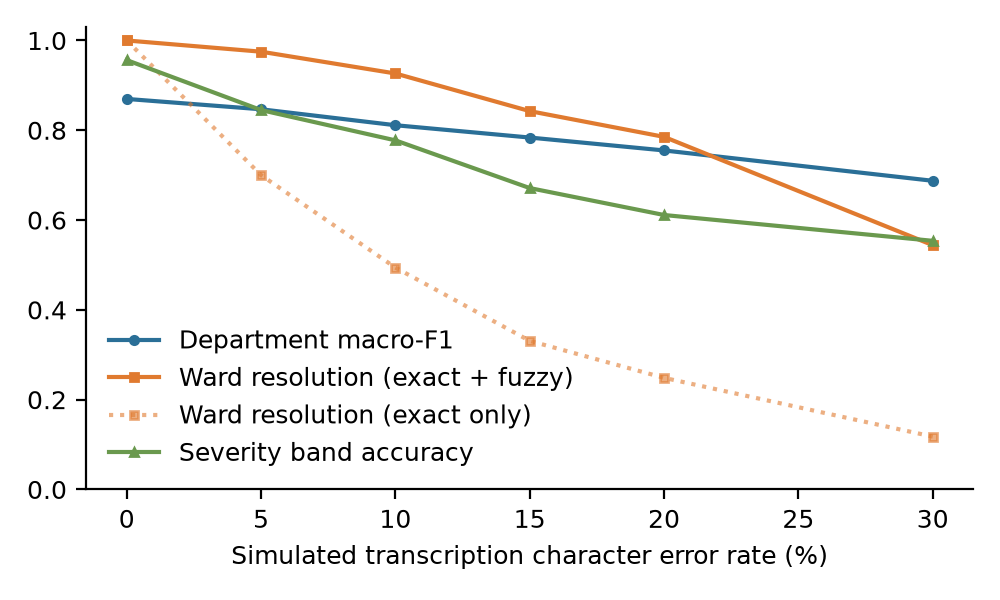
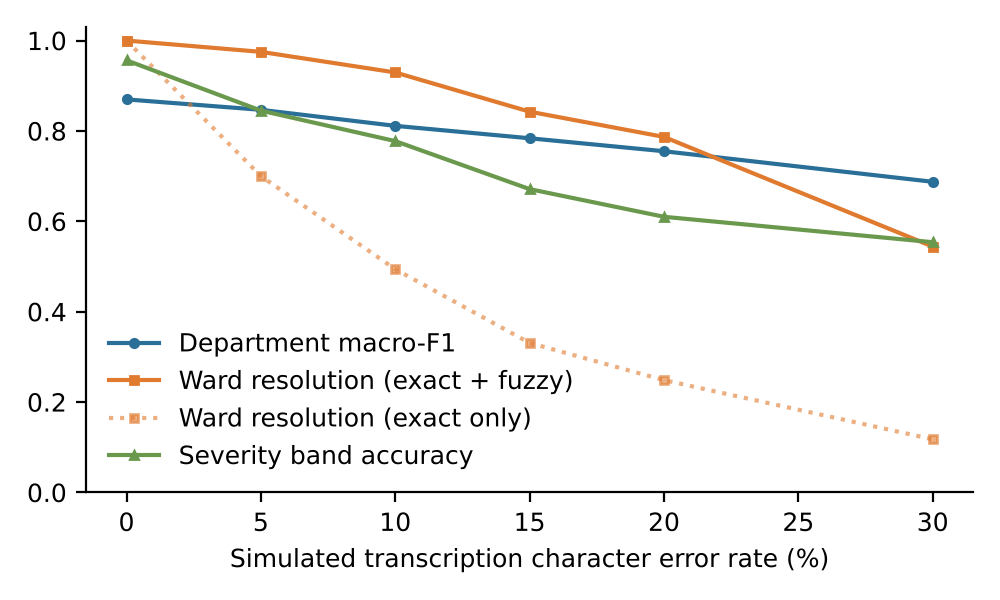
P2: evaluate test_v2 with run_eval --test v2; generate RESULTS.md
run_eval.py takes --test v2 (all corpus/test_v2_<writer>.tsv, into
results/test_v2/) or --test-file PATH; the default and every reported number
are unchanged (checked by passing test_v1 as --test-file). The duplicate-pair
experiment always uses test_v1. scripts/write_results_md.py writes RESULTS.md
(v1.0 vs v2.0 on test_v1, and test_v2 once it has run) from the result files;
a test keeps it current. Regenerated fig_asr_noise.png and the nodal queue
for the F1/F4 changes.

Claude-Session: https://claude.ai/code/session_01W9BiCfzsqPpDsAL1bkcKcT

diff --git a/scripts/write_results_md.py b/scripts/write_results_md.py
@@ -1,0 +1,89 @@
+"""Write RESULTS.md from the result files, so no number in it is typed by hand.
+
+    python scripts/write_results_md.py
+
+Reads results/results_shipped.json (v1.0, the numbers in the PBL-4 report and PBL-5 paper),
+results/results.json (v2.0 on test_v1) and, once it exists, results/test_v2/results.json
+(v2.0 on the held-out test_v2). Run it after experiments/run_eval.py.
+"""
+import sys
+from pathlib import Path
+
+sys.path.insert(0, str(Path(__file__).resolve().parent.parent))
+from nagarvani import config, results_view  # noqa: E402
+from nagarvani.console import safe_console  # noqa: E402
+
+OUT = config.ROOT / "RESULTS.md"
+V2_JSON = config.RESULTS / "test_v2" / "results.json"
+EVAL = "`python experiments/run_eval.py`"
+EVAL_V2 = "`python experiments/run_eval.py --test v2`"
+
+
+def pct(r, digits=1):
+    return "–" if r is None or r.get("rate") is None else f"{100 * r['rate']:.{digits}f}% ({r['count']}/{r['total']})"
+
+
+def num(x, digits=3):
+    return "–" if x is None else f"{x:.{digits}f}"
+
+
+def rows(S):
+    """(metric, formatted value) for one summary; order is the table order."""
+    n10, n20 = S["noise10"] or {}, S["noise20"] or {}
+    return [
+        ("Department accuracy", pct(S["dept_acc"])),
+        ("Department macro-F1", num(S["dept_macro_f1"])),
+        ("Department top-3 accuracy", pct(S["dept_top3"])),
+        ("Keyword baseline accuracy", pct(S["keyword_acc"])),
+        ("Char-only LogReg accuracy (not adopted)", pct(S["char_only_acc"])),
+        ("Ward correct (complaints naming a place)", pct(S["ward_correct"])),
+        ("Ward correctly unresolved (no place named)", pct(S["ward_correctly_unresolved"])),
+        ("False ward resolutions", str(S["ward_false_resolution"])),
+        ("Auto-routed", pct(S["auto_rate"])),
+        ("Correct department and ward when auto-routed", pct(S["auto_correct"])),
+        ("Department errors held for the nodal officer", pct(S["dept_errors_caught"])),
+        ("Severity band accuracy (predicted department)", pct(S["sev_acc_pred"])),
+        ("P1 recall (predicted department)", pct(S["p1_recall_pred"])),
+        ("Learned severity baseline accuracy", pct(S["sev_learned"])),
+        ("Simulated 10% CER: department macro-F1", num(n10.get("dept_macro_f1"))),
+        ("Simulated 10% CER: ward accuracy, exact only / with fuzzy",
+         f"{num(n10.get('ward_acc_exact'))} / {num(n10.get('ward_acc'))}"),
+        ("Simulated 20% CER: ward accuracy (with fuzzy)", num(n20.get("ward_acc"))),
+        ("Simulated 20% CER: severity accuracy", num(n20.get("sev_acc"))),
+    ]
+
+
+def main():
+    safe_console()
+    v1 = results_view.summary(results_view.load(config.RESULTS / "results_shipped.json"))
+    v2 = results_view.summary(results_view.load(config.RESULTS_JSON))
+    L = ["# Results", "",
+         "Generated by `python scripts/write_results_md.py` from `results/results_shipped.json` (v1.0),",
+         "`results/results.json` (v2.0 on test_v1) and `results/test_v2/results.json` (v2.0 on test_v2).",
+         "Do not edit by hand. Changes between versions are explained in `docs/DECISIONS.md` (F1–F6).", "",
+         f"## v1.0 versus v2.0 on test_v1 ({v2['n_test']} complaints written by the rule authors)", "",
+         "| Metric | v1.0 | v2.0 | Test set | Command |", "|---|---|---|---|---|"]
+    for (name, a), (_, b) in zip(rows(v1), rows(v2)):
+        mark = "" if a == b else " **(changed)**"
+        L.append(f"| {name}{mark} | {a} | {b} | test_v1 | {EVAL} |")
+    L += [""]
+    R2 = results_view.load(V2_JSON)
+    if R2 is None:
+        L += ["## v2.0 on test_v2 (held out)", "",
+              "Not run yet: the test_v2 files are evaluated once, after the Phase 2 fixes are committed.", ""]
+    else:
+        try:
+            s2 = rows(results_view.summary(R2))
+        except KeyError:                       # e.g. no P1 complaint in the set
+            s2 = None
+        L += [f"## v2.0 on test_v2 ({R2['data']['n_test']} held-out complaints by writers who did not write the rules)",
+              "", "| Metric | v2.0 on test_v1 | v2.0 on test_v2 | Command |", "|---|---|---|---|"]
+        for (name, a), (_, b) in zip(rows(v2), s2 or [(n, "–") for n, _ in rows(v2)]):
+            L.append(f"| {name} | {a} | {b} | {EVAL_V2} |")
+        L += [""]
+    OUT.write_text("\n".join(L), encoding="utf-8")
+    print(f"wrote {OUT}")
+
+
+if __name__ == "__main__":
+    main()

diff --git a/experiments/run_eval.py b/experiments/run_eval.py
@@ -33,12 +33,33 @@ from nagarvani.dedup import DuplicateDetector
 from nagarvani.asr import simulate_asr_noise
 from nagarvani.normalise import normalise
 
+# [v2.0 change] Which test set. The default is test_v1 (corpus/test_handwritten.tsv), which
+# gives every reported number. "--test v2" evaluates the held-out test_v2 (all
+# corpus/test_v2_<writer>.tsv files) into results/test_v2/; "--test-file PATH" any file in the
+# same format. The duplicate-pair experiment (E6) always uses test_v1, whose ids the pairs name.
+import argparse, glob
+_ap = argparse.ArgumentParser()
+_ap.add_argument("--test", choices=["v1", "v2"], default="v1")
+_ap.add_argument("--test-file", nargs="+")
+_args = _ap.parse_args()
+_V1 = os.path.join(ROOT, "corpus", "test_handwritten.tsv")
+if _args.test_file:
+    _test_files = _args.test_file
+elif _args.test == "v2":
+    _test_files = sorted(f for f in glob.glob(os.path.join(ROOT, "corpus", "test_v2_*.tsv")) if "TEMPLATE" not in f)
+    if not _test_files:
+        sys.exit("No corpus/test_v2_<writer>.tsv files yet (see docs/TEST_V2_GUIDE.md).")
+else:
+    _test_files = [_V1]
+
 # [build change] NAGARVANI_RESULTS_DIR lets the tests write to a temporary folder.
-OUT = os.environ.get("NAGARVANI_RESULTS_DIR", os.path.join(ROOT, "results"))
+OUT = os.environ.get("NAGARVANI_RESULTS_DIR",
+                     os.path.join(ROOT, "results", "test_v2") if _args.test == "v2" else os.path.join(ROOT, "results"))
 FIG = os.path.join(OUT, "figures"); os.makedirs(FIG, exist_ok=True)
 R = {}
 train = load_tsv(os.path.join(ROOT, "corpus", "train_template.tsv"))
-test = load_tsv(os.path.join(ROOT, "corpus", "test_handwritten.tsv"))
+test = [r for f in _test_files for r in load_tsv(f)]
+test_v1 = load_tsv(_V1)
 Xtr, ytr = [r["text"] for r in train], [r["dept"] for r in train]
 Xte, yte = [r["text"] for r in test], [r["dept"] for r in test]
 LABELS = sorted(DEPARTMENTS)
@@ -66,6 +87,7 @@ for name, m in models.items():
     by_lang = {}
     for lg in ["mr", "hi", "mr-rom", "mix"]:
         idx = [i for i, r in enumerate(test) if r["lang"] == lg]
+        if not idx: continue                     # [v2.0 change] a test set may lack a variety
         by_lang[lg] = accuracy_score([yte[i] for i in idx], [p[i] for i in idx])
     E1[name] = dict(acc=accuracy_score(yte, p), macro_f1=f1_score(yte, p, average="macro"),
                     top3=float(top3), by_lang=by_lang, fit_seconds=fit_s)
@@ -113,7 +135,7 @@ b1 = ax.bar(x - w/2, [E1[n]["acc"] for n in names], w, color=C1, label="Accuracy
 b2 = ax.bar(x + w/2, [E1[n]["macro_f1"] for n in names], w, color=C2, label="Macro-F1")
 for b in list(b1) + list(b2):
     ax.text(b.get_x() + b.get_width()/2, b.get_height() + 0.01, f"{b.get_height():.2f}", ha="center", fontsize=7)
-ax.set_xticks(x); ax.set_xticklabels(short); ax.set_ylim(0, 1.05); ax.set_ylabel("Score (hand-written test set, n=160)")
+ax.set_xticks(x); ax.set_xticklabels(short); ax.set_ylim(0, 1.05); ax.set_ylabel(f"Score (hand-written test set, n={len(test)})")
 ax.legend(frameon=False, loc="upper left", ncol=2)
 fig.tight_layout(); fig.savefig(os.path.join(FIG, "fig_models.png"), dpi=200); plt.close(fig)
 
@@ -209,7 +231,7 @@ fig.tight_layout(); fig.savefig(os.path.join(FIG, "fig_severity.png"), dpi=200);
 # ------------------------------------------------ E6  duplicate detection
 import csv
 pairs = list(csv.DictReader(open(os.path.join(ROOT, "corpus", "dup_pairs.tsv"), encoding="utf-8"), delimiter="\t"))
-byid = {r["id"]: r for r in test}
+byid = {r["id"]: r for r in test_v1}
 dd = DuplicateDetector(res).fit(Xtr)
 rows6 = []
 for pr in pairs:

diff --git a/tests/test_results_md.py b/tests/test_results_md.py
@@ -1,0 +1,9 @@
+"""RESULTS.md is generated from the result files and is up to date."""
+from scripts import write_results_md as w
+from tests.conftest import ROOT
+
+
+def test_results_md_is_current(tmp_path, monkeypatch):
+    monkeypatch.setattr(w, "OUT", tmp_path / "RESULTS.md")
+    w.main()
+    assert (tmp_path / "RESULTS.md").read_text(encoding="utf-8") == (ROOT / "RESULTS.md").read_text(encoding="utf-8")

diff --git a/RESULTS.md b/RESULTS.md
@@ -1,0 +1,32 @@
+# Results
+
+Generated by `python scripts/write_results_md.py` from `results/results_shipped.json` (v1.0),
+`results/results.json` (v2.0 on test_v1) and `results/test_v2/results.json` (v2.0 on test_v2).
+Do not edit by hand. Changes between versions are explained in `docs/DECISIONS.md` (F1–F6).
+
+## v1.0 versus v2.0 on test_v1 (160 complaints written by the rule authors)
+
+| Metric | v1.0 | v2.0 | Test set | Command |
+|---|---|---|---|---|
+| Department accuracy | 86.9% (139/160) | 86.9% (139/160) | test_v1 | `python experiments/run_eval.py` |
+| Department macro-F1 | 0.870 | 0.870 | test_v1 | `python experiments/run_eval.py` |
+| Department top-3 accuracy | 95.6% (153/160) | 95.6% (153/160) | test_v1 | `python experiments/run_eval.py` |
+| Keyword baseline accuracy | 81.9% (131/160) | 81.9% (131/160) | test_v1 | `python experiments/run_eval.py` |
+| Char-only LogReg accuracy (not adopted) | 88.8% (142/160) | 88.8% (142/160) | test_v1 | `python experiments/run_eval.py` |
+| Ward correct (complaints naming a place) | 100.0% (136/136) | 100.0% (136/136) | test_v1 | `python experiments/run_eval.py` |
+| Ward correctly unresolved (no place named) **(changed)** | 95.8% (23/24) | 100.0% (24/24) | test_v1 | `python experiments/run_eval.py` |
+| False ward resolutions **(changed)** | 1 | 0 | test_v1 | `python experiments/run_eval.py` |
+| Auto-routed | 70.0% (112/160) | 70.0% (112/160) | test_v1 | `python experiments/run_eval.py` |
+| Correct department and ward when auto-routed | 97.3% (109/112) | 97.3% (109/112) | test_v1 | `python experiments/run_eval.py` |
+| Department errors held for the nodal officer | 85.7% (18/21) | 85.7% (18/21) | test_v1 | `python experiments/run_eval.py` |
+| Severity band accuracy (predicted department) | 95.6% (153/160) | 95.6% (153/160) | test_v1 | `python experiments/run_eval.py` |
+| P1 recall (predicted department) | 94.4% (34/36) | 94.4% (34/36) | test_v1 | `python experiments/run_eval.py` |
+| Learned severity baseline accuracy | 76.9% (123/160) | 76.9% (123/160) | test_v1 | `python experiments/run_eval.py` |
+| Simulated 10% CER: department macro-F1 | 0.811 | 0.811 | test_v1 | `python experiments/run_eval.py` |
+| Simulated 10% CER: ward accuracy, exact only / with fuzzy **(changed)** | 0.494 / 0.926 | 0.494 / 0.929 | test_v1 | `python experiments/run_eval.py` |
+| Simulated 20% CER: ward accuracy (with fuzzy) **(changed)** | 0.785 | 0.787 | test_v1 | `python experiments/run_eval.py` |
+| Simulated 20% CER: severity accuracy **(changed)** | 0.611 | 0.610 | test_v1 | `python experiments/run_eval.py` |
+
+## v2.0 on test_v2 (held out)
+
+Not run yet: the test_v2 files are evaluated once, after the Phase 2 fixes are committed.
